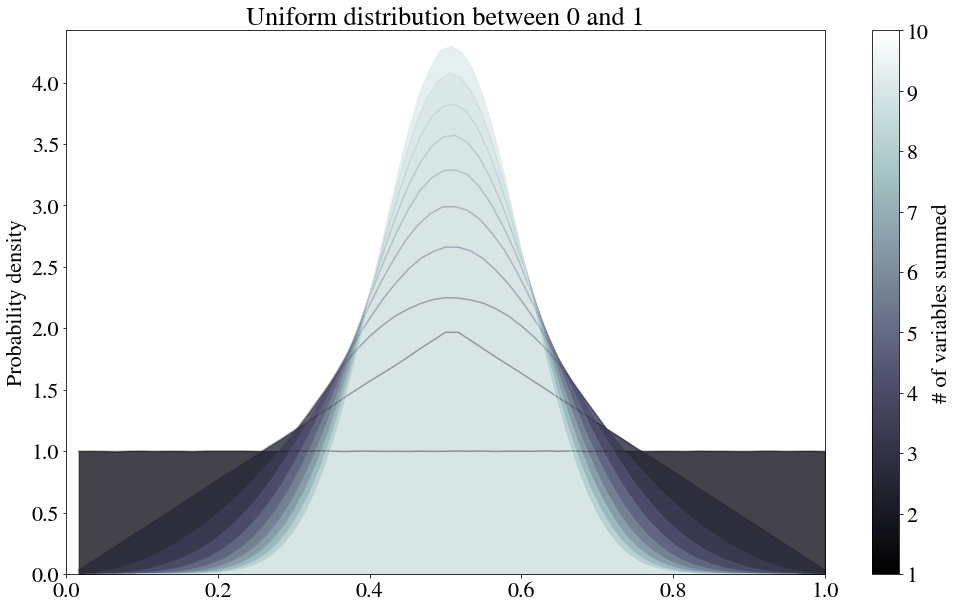
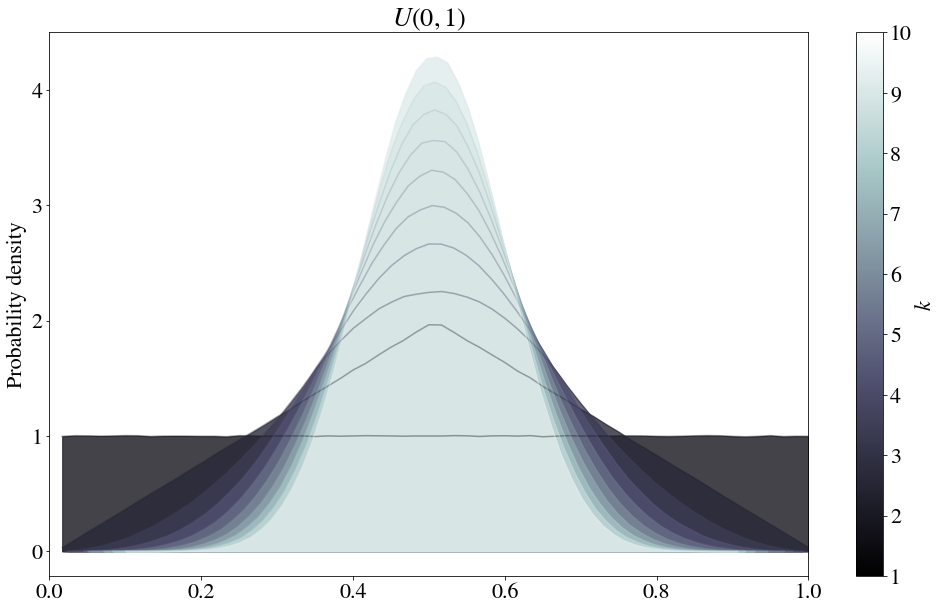
Revise figures for 2018-08-26 post, and add in derivation.

diff --git a/_posts/2018-08-26-central-limit-theorem.md b/_posts/2018-08-26-central-limit-theorem.md
@@ -1,25 +1,41 @@
 ---
 layout: post
-title: Central limit theorem convergence visualizations
+title: Central limit theorem
 tags: statistics
 ---
 
-The central limit theorem states that the distributions of sums of random variables approach normality, so long as:
+The central limit theorem states that, given a parent distribution of mean $\mu$ and variance $\sigma^2$, if you independently draw $k$ samples from this parent distribution, average them to get one value, then repeat this process over and over, the resulting distribution formed by these values will approach a normal distribution of mean $\mu$ and variance $\sigma^2/k$ as $k \to \infty$.
 
-1. The sampling is independent.
-1. The second moment of the parent distribution exists.
-
-The first of these conditions simply requires that there is no correlation between the summed variables. The second requires these variables to be drawn from a distribution that has a finite variance.
-
-Because I have always had poor intuition for this theorem, I thought I'd spend some time making some visualizations of how sums of variables from different distributions converge to normality with increasing numbers of elements summed.
-
-Note that I divide the resulting sum by the number of elements summed. If the central limit holds, then, the resulting normal distribution should be centered around the average value of the parent distribution.
+Because I have always had poor intuition for this theorem, below I'll discuss (with very simple examples) how this convergence to normality occurs for different parent distributions, along with some illustrations.
 
 ## Uniform distribution
-
-Below is the convergence of uniform distribution between 0 and 1. Note that an unbounded uniform distribution is a trivial example of a distribution with an infinite variance for which no convergence would occur.
+Consider a uniform distribution defined between 0 and 1 (note that an unbounded uniform distribution is a trivial example of a distribution with an infinite variance for which no convergence would occur).
 
 <img src="../images/2018-08-26-central-limit-theorem/uniform.png">
+
+The most curious feature is the kinked line that occurs when $k=2$. The functional form of this kinked line can be found theoretically. In particular, we need to obtain the total probability that two values $x_1$ and $x_2$ sum to a particular value $u$ (for now, this is defined between $0$ and $2$ -- we will divide by $2$ later to turn this sum into an average). This can be written as follows:
+
+$$P(u = x + y) = \int_{-\infty}^{\infty} P(x) P(u - x) \ dx$$
+
+(note this is a convolution -- for a fantastic, more thorough expalanation of the above equation, see [Understanding Convolutions](http://colah.github.io/posts/2014-07-Understanding-Convolutions/) by Christopher Olah). $P(x) = 1$, so the integrals should be quite simple. The only trick here is to solve for the piecewise behavior... $P(u - x)$ is only $1$ where $0 \leq u - x \leq 1$, or in other words, where $ -1 +u \leq x \leq u $, and $P(x)$ is only $1$ when $0 \leq x \leq 1$. Therefore, between $0 \leq u \leq 1$, we have
+
+$$P(u) = \int_{0}^{u} dx = u$$ 
+
+And for $u>1$, we have
+
+$$P(u) = \int_{-1+u}^{1} dx = 2 - u$$
+
+We can define $G(u)$, the probability density function for the average of two values $x_1$ and $x_2$, by moving the threshold to $u=1/2$ and doubling the density, as follows:
+
+$$G(u) = 
+\begin{cases}
+4 u & 0 \leq u \leq 0.5 \\
+4 - 4u & 0.5 \leq u \leq 1 \\
+0 & \text{otherwise}
+\end{cases}
+$$
+
+... consistent with our figure!
 
 ## Beta distribution
 The beta distribution is a normalized version of:
@@ -41,12 +57,12 @@ It takes a bit longer for the convergence to occur, so let's try log-spacing the
 
 <img src="../images/2018-08-26-central-limit-theorem/lognormal_log.png">
 
-Because there are so many distributions that are log-normal, the central limit applied here has some strong practical ramifications that I had not before considered. For example, if price distributions tend to be log-normal, then a revenue distribution for which multiple orders are placed could perhaps be more accurately described as one of these in-between shapes.
+Because there are so many distributions that are log-normal, the central limit applied here has some strong practical ramifications. For example, if price distributions tend to be log-normal, then a revenue distribution for which multiple orders are placed could perhaps be more accurately described as one of these in-between shapes. Or, at a coarser scale, this could mean that the amount of money spent by a person each year is normally distributed.
 
-Or, considering [prices tend to be between power law or log normal](https://link.springer.com/content/pdf/10.1007%2Fs00191-009-0142-z.pdf), could log normality here somehow be a step on the way to normalcy, from the summing of random independent variables that are power-law distributed?
+Or, considering [prices tend to be between power law or log normal](https://link.springer.com/content/pdf/10.1007%2Fs00191-009-0142-z.pdf), if log normality is observed, could it somehow be a step on the way to normalcy, from the summing of random independent variables that are power-law distributed? Let's move onto power-law distributions to find out!
 
 ## Pareto distributions
-The so-called "Pareto distribution" is simply a power law distribution $P(x) \sim 1/x^a$. To avoid the singularity at $x=0$, this is often shifted over, or only defined starting at $x=1$ (or a different value, depending on the scaling).
+The "Pareto distribution" is a power law distribution $P(x) \sim 1/x^a$. To avoid the singularity at $x=0$, this is often shifted over, or only defined starting at $x=1$ (or a different value, depending on the scaling).
 
 `numpy.random.pareto` is used here. The formula appears to be:
 
@@ -56,11 +72,13 @@ For $\alpha = 2$, for which the variance is finite, the normal distribution appe
 
 <img src="../images/2018-08-26-central-limit-theorem/pareto2.png">
 
-However, for $\alpha =1$, for which the variance is infinite, the curves flatten and widen. Note these are normalized, so the decreasing height of the peak indicates spreading.
+The first few steps indeed look somewhat log-normal!
+
+However, for $\alpha =1$, for which the variance is infinite, no normal distribution appears to be in sight.
 
 <img src="../images/2018-08-26-central-limit-theorem/pareto1.png">
 
-While this empirical test does seem to indicate that no convergence to a normal distribution occurs, as expected, it does still supposedly converge to what is called an [alpha-stable distribution](https://en.wikipedia.org/wiki/Central_limit_theorem), though I do not know what this is yet.
+While this empirical test does seem to indicate that no convergence to a normal distribution occurs, it does still [converge](https://en.wikipedia.org/wiki/Central_limit_theorem) to an [alpha-stable distribution](https://en.wikipedia.org/wiki/Stable_distribution).
 
 ## Final notes
 Note that [the density of the sum of two independent real-valued random variables equals the convolution of the density functions of the original variables](https://en.wikipedia.org/w/index.php?title=Illustration_of_the_central_limit_theorem&gettingStartedReturn=true). We could therefore recreate these graphs analytically.
